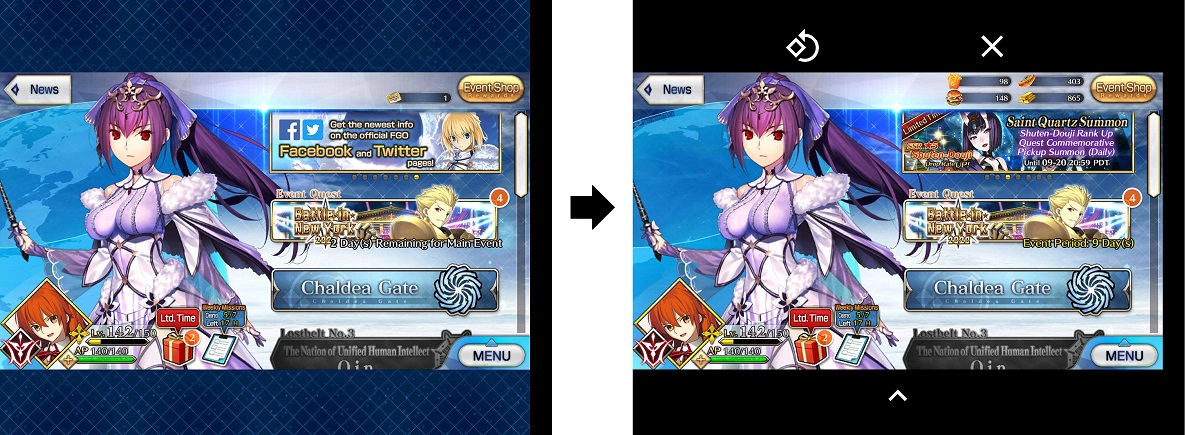
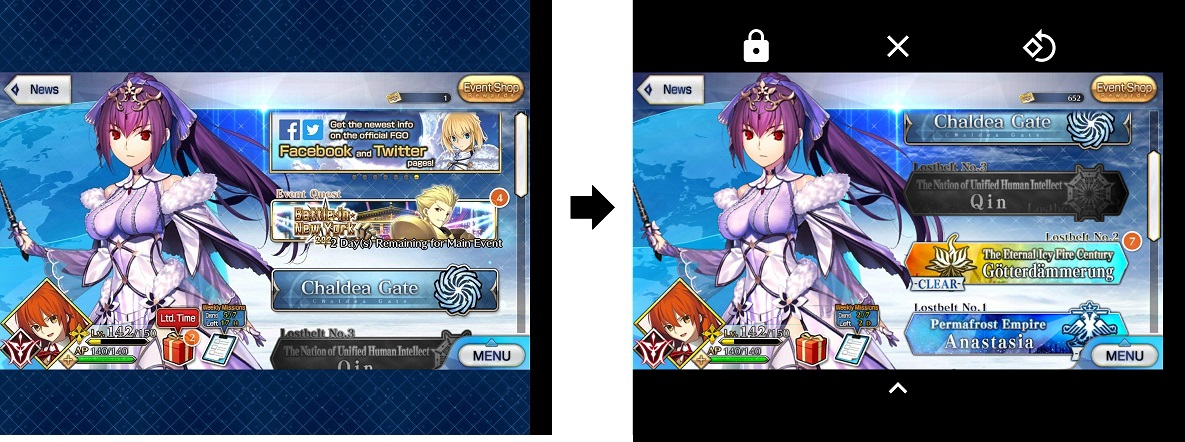
Updated screenshots for the github readme

diff --git a/README.md b/README.md
@@ -1,7 +1,7 @@
 ![](app/src/main/res/mipmap-hdpi/ic_launcher.png)
 # OLED Blinds
 ![](images/comparison-resize.jpg)
-
+![](images/leftRightComparison.jpg)
 Android Devices have varying screen sizes. That's why you often see static backdrops to maintain the app's aspect ratio. This can damage the screen permanently if this is an app you frequently use for hours.
 
 This app helps by adding black letter boxings which for OLED screen means the pixels will be shut off. The controls hide automatically after a few secs. An unintended side effect of this is that it can save a bit of your battery!
